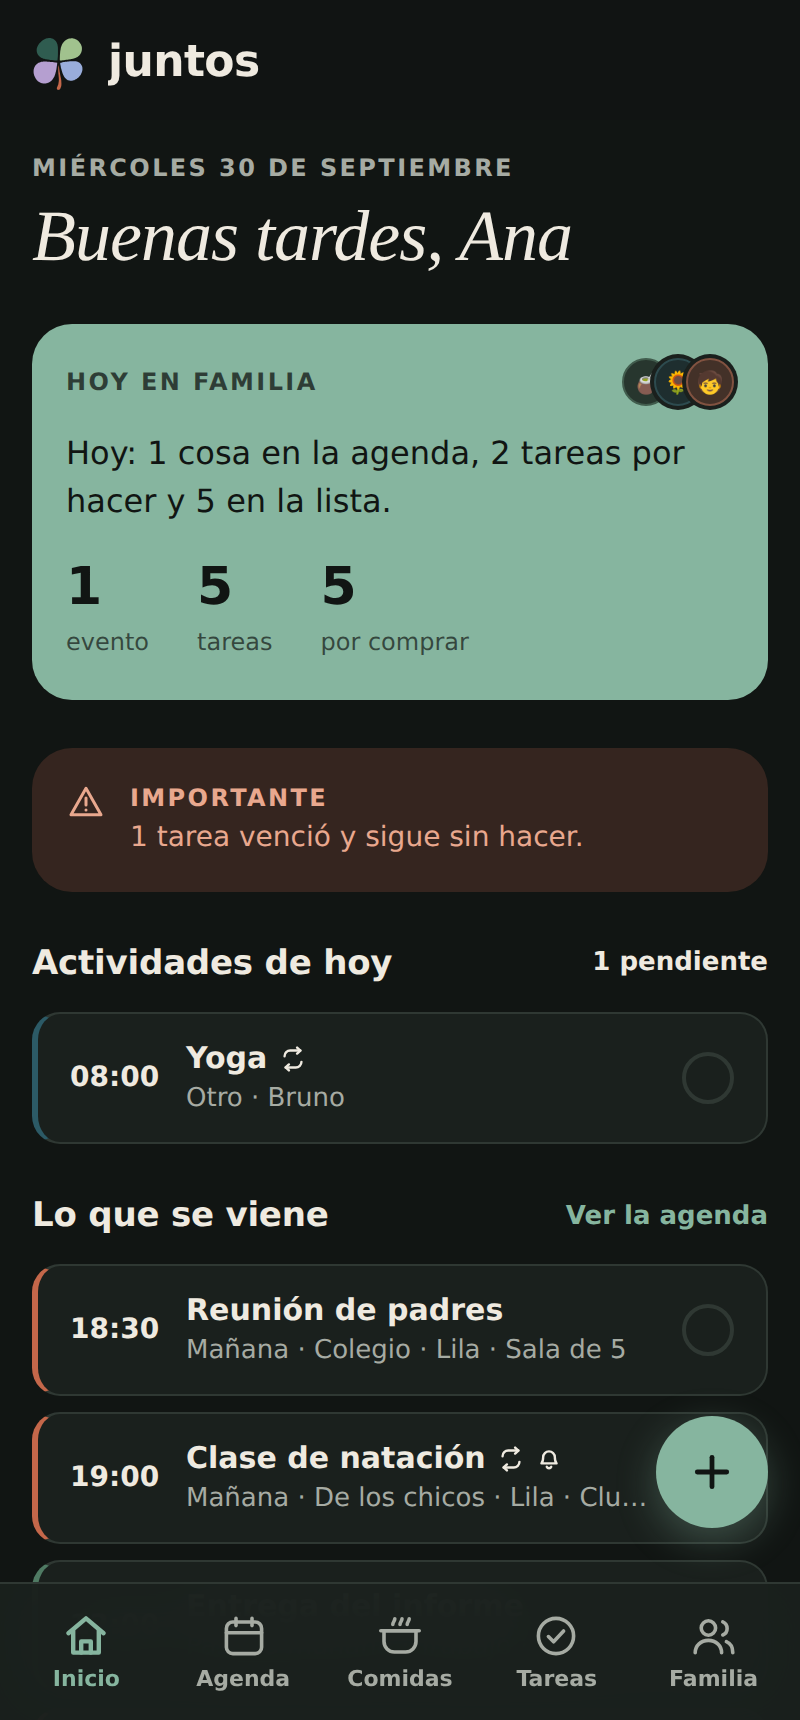
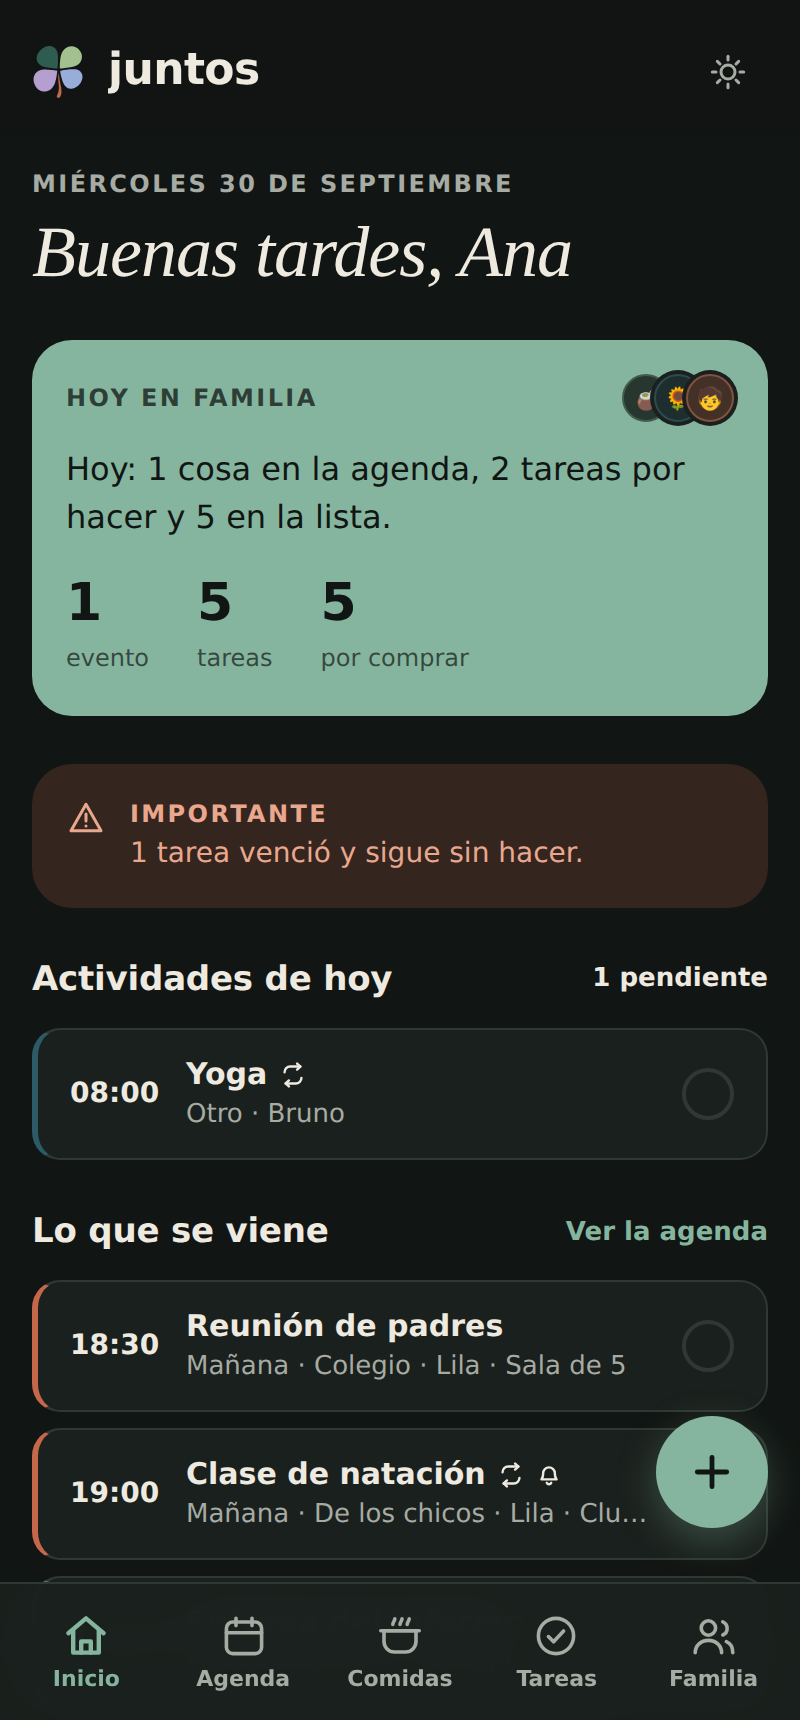
El tema claro por defecto, y un botón para cambiarlo en la cabecera
Hasta ahora la app seguía la preferencia del sistema, así que en un teléfono en
modo oscuro abría oscura. El marfil es la identidad de juntos, no una de dos
opciones equivalentes: ahora abre en claro siempre, y el oscuro queda a un
toque.

- Botón de sol/luna en la cabecera, en todas las pantallas. El cambio de tema
  se usa según la hora del día, no una vez y nunca más, así que estaba mal
  escondido adentro de Familia. Ahí sigue estando igual, para quien lo busque.
- Se fue la opción "Como el sistema". Con el botón a mano, un tercer estado que
  no se ve en el momento solo confunde.
- El color de la barra de arriba del celular ahora acompaña al tema en vez de
  seguir la preferencia del sistema por su cuenta.
- Se fueron los dos bloques @media (prefers-color-scheme: dark) del CSS:
  duplicaban todos los tokens y ya no pueden aplicarse, porque data-tema
  siempre está puesto. Si por algo faltara, el :root de arriba ya es el claro,
  que es justo el que corresponde.

Dos pruebas nuevas: que abra en claro aunque el navegador esté en modo oscuro
(verificada por mutación) y que el botón cambie el tema, mueva el color de la
barra, sobreviva a recargar y esté en las cinco secciones.

Claude-Session: https://claude.ai/code/session_01RUabaAt6mYTCfQZrrPF8wK

diff --git a/css/app.css b/css/app.css
@@ -68,6 +68,9 @@
   color-scheme: light;
 }
 
+/* El tema oscuro. No hay bloque de prefers-color-scheme a propósito: el tema
+   lo elige la persona con el botón de la cabecera, y por defecto es claro. Si
+   por algo no llegara a ponerse data-tema, el :root de arriba ya es el claro. */
 :root[data-tema='oscuro'] {
   --fondo: #111513;
   --superficie: #1a201d;
@@ -99,36 +102,6 @@
   --cat-otro: #a6aba3;
 
   color-scheme: dark;
-}
-
-@media (prefers-color-scheme: dark) {
-  :root:not([data-tema='claro']):not([data-tema='oscuro']) {
-    --fondo: #111513;
-    --superficie: #1a201d;
-    --superficie-2: #232b27;
-    --linea: #2f3833;
-    --texto: #efeae0;
-    --texto-2: #a6aba3;
-    --primario: #86b59f;
-    --acento: #e38b6d;
-    --info: #7fb0bc;
-    --salvia-claro: #243029;
-    --arena: #2b2a23;
-    --terracota-claro: #35251f;
-    --terracota-texto: #e9a88e;
-    --sobre-primario: #111513;
-    --sobre-acento: #111513;
-    --cat-familia: #7fb79f;
-    --cat-hijo: #7fb0bc;
-    --cat-colegio: #dcb35f;
-    --cat-salud: #8fbfa3;
-    --cat-pareja: #e38b6d;
-    --cat-trabajo: #bf96b4;
-    --cat-cumple: #e9a88e;
-    --cat-tramite: #b3c184;
-    --cat-otro: #a6aba3;
-    color-scheme: dark;
-  }
 }
 
 html {
@@ -285,6 +258,32 @@ button {
   display: block;
   width: 100%;
   height: 100%;
+}
+
+/* El botón de tema, y cualquier otra acción de la cabecera. 44 px de área
+   táctil aunque el dibujo mida 20. */
+#acciones-cabecera {
+  display: flex;
+  align-items: center;
+  gap: var(--e1);
+  flex: none;
+}
+
+.btn-icono {
+  width: 40px;
+  height: 40px;
+  border-radius: 50%;
+  display: flex;
+  align-items: center;
+  justify-content: center;
+  color: var(--texto-2);
+  flex: none;
+  transition: background 0.15s, color 0.15s;
+}
+
+.btn-icono:active {
+  background: var(--superficie-2);
+  color: var(--texto);
 }
 
 .cabecera h1 {
@@ -649,14 +648,6 @@ main {
   --tinte-fondo: color-mix(in srgb, var(--tinte) 24%, var(--superficie));
   --tinte-texto: color-mix(in srgb, var(--tinte) 45%, #ffffff);
   --tinte-linea: color-mix(in srgb, var(--tinte) 55%, var(--linea));
-}
-
-@media (prefers-color-scheme: dark) {
-  :root:not([data-tema='claro']):not([data-tema='oscuro']) [style*='--tinte'] {
-    --tinte-fondo: color-mix(in srgb, var(--tinte) 24%, var(--superficie));
-    --tinte-texto: color-mix(in srgb, var(--tinte) 45%, #ffffff);
-    --tinte-linea: color-mix(in srgb, var(--tinte) 55%, var(--linea));
-  }
 }
 
 /* ---------------------------------------------------------------- avatares */

diff --git a/js/estado.js b/js/estado.js
@@ -456,25 +456,39 @@ export function irA(vista, extra = {}) {
 //  Tema
 // ---------------------------------------------------------------------------
 
+// El color de la barra del sistema en cada tema. Son los mismos --fondo del
+// CSS; si alguno cambia allá, cambiarlo acá.
+const COLOR_BARRA = { claro: '#f7f3ec', oscuro: '#111513' };
+
+/**
+ * El tema elegido. Por defecto claro: la app es de marfil, y el oscuro es una
+ * opción, no la mitad de la identidad. No se mira prefers-color-scheme a
+ * propósito, para que abra siempre igual en los dos teléfonos.
+ */
 export function temaGuardado() {
   try {
-    return localStorage.getItem('ag_tema') ?? 'auto';
+    const t = localStorage.getItem('ag_tema');
+    return t === 'oscuro' || t === 'claro' ? t : 'claro';
   } catch {
-    return 'auto';
+    return 'claro';
   }
 }
 
 export function ponerTema(tema) {
+  const t = tema === 'oscuro' ? 'oscuro' : 'claro';
+  document.documentElement.dataset.tema = t;
+  // La barra de arriba del celular también, si no queda de otro color que la app.
+  const meta = document.getElementById('color-barra');
+  if (meta) meta.content = COLOR_BARRA[t];
   try {
-    if (tema === 'auto') {
-      localStorage.removeItem('ag_tema');
-      document.documentElement.removeAttribute('data-tema');
-    } else {
-      localStorage.setItem('ag_tema', tema);
-      document.documentElement.dataset.tema = tema;
-    }
-  } catch { /* localStorage bloqueado */ }
+    localStorage.setItem('ag_tema', t);
+  } catch { /* localStorage bloqueado: el tema vale para esta sesión */ }
   avisar();
+}
+
+/** Pasa de claro a oscuro y al revés. Lo usa el botón de la cabecera. */
+export function alternarTema() {
+  ponerTema(temaGuardado() === 'oscuro' ? 'claro' : 'oscuro');
 }
 
 // ---------------------------------------------------------------------------

diff --git a/index.html b/index.html
@@ -6,8 +6,9 @@
 <title>juntos</title>
 <meta name="description" content="La agenda de la familia, el menú de la semana y lo que hay que hacer, en un solo lugar.">
 
-<meta name="theme-color" content="#111513" media="(prefers-color-scheme: dark)">
-<meta name="theme-color" content="#f7f3ec" media="(prefers-color-scheme: light)">
+<!-- El color de la barra del sistema. Arranca en claro, que es el tema por
+     defecto, y lo actualiza estado.js cuando se cambia de tema. -->
+<meta name="theme-color" id="color-barra" content="#f7f3ec">
 <meta name="mobile-web-app-capable" content="yes">
 <meta name="apple-mobile-web-app-capable" content="yes">
 <meta name="apple-mobile-web-app-status-bar-style" content="black-translucent">
@@ -26,13 +27,21 @@
 </head>
 <body>
 
-<!-- Se pinta el tema guardado antes de que aparezca nada, así no hay un
-     flash de marfil al abrir la app de noche. -->
+<!-- El tema se pinta antes de que aparezca nada, así no hay un parpadeo al
+     abrir. El que manda es el elegido a mano; si nunca se eligió, claro. No se
+     mira la preferencia del sistema a propósito: la app es de marfil, y quien
+     la quiera oscura la cambia con el botón de la cabecera. -->
 <script>
-  try {
-    var t = localStorage.getItem('ag_tema');
-    if (t === 'claro' || t === 'oscuro') document.documentElement.dataset.tema = t;
-  } catch (e) { /* localStorage bloqueado */ }
+  (function () {
+    var t = 'claro';
+    try {
+      var g = localStorage.getItem('ag_tema');
+      if (g === 'claro' || g === 'oscuro') t = g;
+    } catch (e) { /* localStorage bloqueado */ }
+    document.documentElement.dataset.tema = t;
+    var m = document.getElementById('color-barra');
+    if (m) m.content = t === 'oscuro' ? '#111513' : '#f7f3ec';
+  })();
 </script>
 
 <div id="app">

diff --git a/js/main.js b/js/main.js
@@ -81,10 +81,21 @@ function pintarApp() {
 
   // Encabezado: el trébol y el nombre de la sección. En Inicio dice "juntos",
   // que es la única pantalla donde la marca tiene lugar.
+  const oscuro = est.temaGuardado() === 'oscuro';
   pintar(cabecera,
     el('span.marca-mini', {}, [trebol({ tamano: 26 })]),
     el('h1', { id: 'titulo', texto: vista.titulo() }),
-    el('div', { id: 'acciones-cabecera' }, vista.acciones?.() ?? []),
+    el('div', { id: 'acciones-cabecera' }, [
+      ...(vista.acciones?.() ?? []),
+      // El cambio de tema va en todas las pantallas y no escondido en Familia:
+      // se usa según la hora del día, no una vez y nunca más.
+      el('button.btn-icono', {
+        type: 'button',
+        'aria-label': oscuro ? 'Pasar al tema claro' : 'Pasar al tema oscuro',
+        'aria-pressed': String(oscuro),
+        'on:click': () => est.alternarTema(),
+      }, [icono(oscuro ? 'sol' : 'luna', { tamano: 20 })]),
+    ]),
   );
 
   // Marca en la barra qué sección está abierta.

diff --git a/js/views/familia.js b/js/views/familia.js
@@ -731,12 +731,13 @@ export function vistaFamilia(destino) {
         String(est.comprasPendientes().length),
         () => est.irA('comidas', { tabComidas: 'compras' }),
       ),
+      // El mismo cambio que el botón de la cabecera, por si alguien lo busca acá.
       filaAjuste(
-        tema === 'claro' ? 'sol' : 'luna',
+        tema === 'oscuro' ? 'luna' : 'sol',
         'Tema',
-        el('div', { estilo: { marginLeft: 'auto', maxWidth: '150px' } }, [
+        el('div', { estilo: { marginLeft: 'auto', maxWidth: '130px' } }, [
           elegir(
-            [['auto', 'Como el sistema'], ['oscuro', 'Oscuro'], ['claro', 'Claro']],
+            [['claro', 'Claro'], ['oscuro', 'Oscuro']],
             tema,
             { 'on:change': (e) => est.ponerTema(e.target.value) },
           ),

diff --git a/README.md b/README.md
@@ -153,6 +153,11 @@ bordes de 1 px en lugar de sombras, radios generosos y áreas táctiles de 44 px
 como mínimo. El terracota se usa solo para lo de hoy y lo urgente; si estuviera
 en todos lados, dejaría de avisar nada.
 
+**La app abre en claro, siempre.** No mira la preferencia del sistema: el marfil
+es la identidad, no una de dos opciones equivalentes, y así se ve igual en los
+dos teléfonos. El oscuro está a un toque, con el botón de la cabecera, y lo que
+se elija queda guardado.
+
 El símbolo son cuatro hojas, una de cada color, y un tallo terracota que las
 sostiene: cada integrante tiene su lugar y algo en común los une.
 
